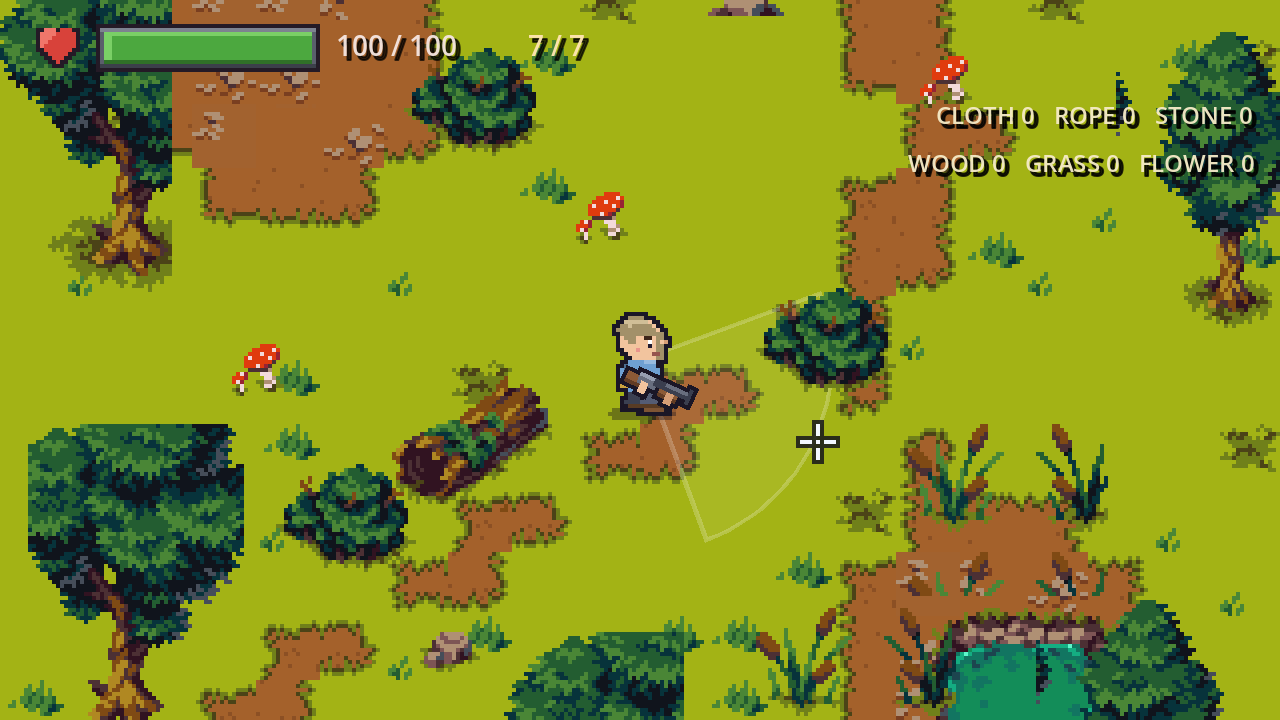
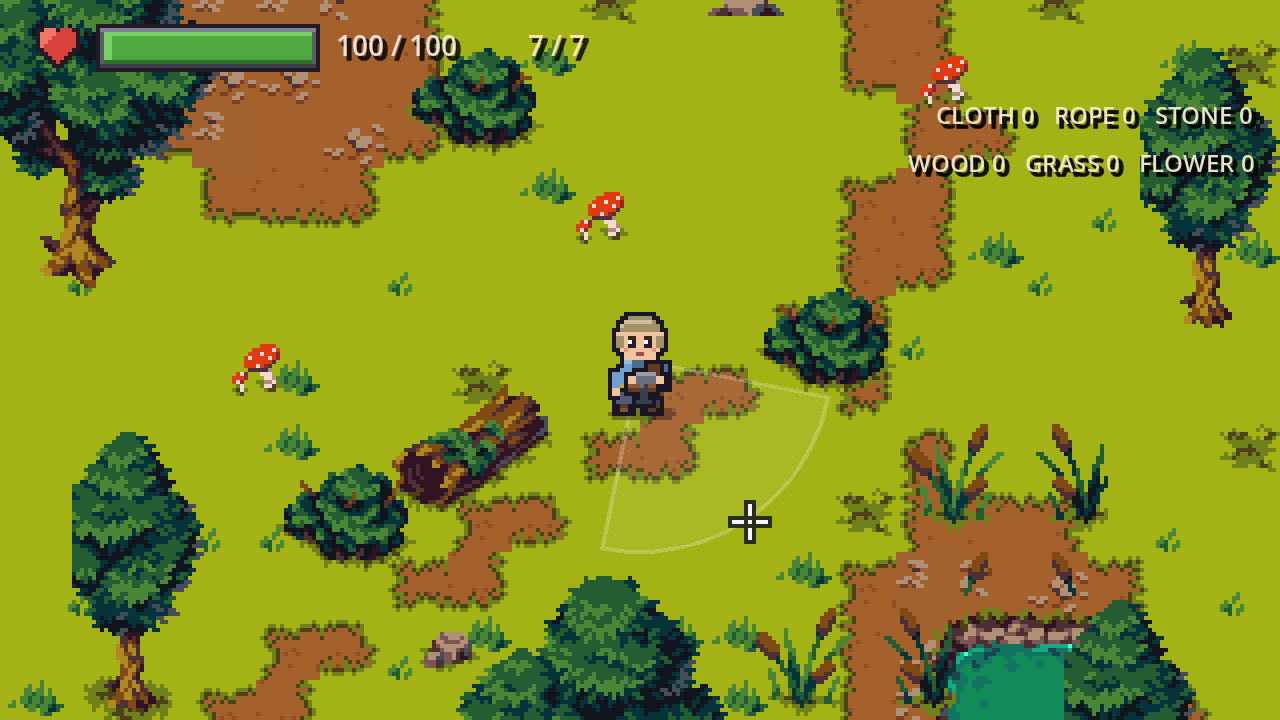
fix: 树抠图裁全（4 种完整树冠）+ 去掉零散碎片

diff --git a/tools/make_forest_props.py b/tools/make_forest_props.py
@@ -4,6 +4,8 @@
 """
 from pathlib import Path
 
+from collections import deque
+
 from PIL import Image
 
 DECO = Path(r"C:\game\TopDownFantasy-Forest\Decorations\Decorations.png")
@@ -12,9 +14,10 @@ OUT = Path(r"C:\game\test\assets\forest")
 
 # 名字 -> (来源, 裁剪框)
 CROPS = {
-    "tree_a": (DECO, (154, 158, 202, 242)),
-    "tree_b": (DECO, (0, 160, 56, 242)),
-    "tree_c": (DECO, (98, 160, 152, 242)),
+    "tree_a": (DECO, (4, 136, 84, 254)),
+    "tree_b": (DECO, (86, 138, 166, 252)),
+    "tree_c": (DECO, (168, 158, 212, 252)),
+    "tree_d": (DECO, (214, 158, 252, 252)),
     "bush": (DECO, (10, 0, 50, 32)),
     "log": (DECO, (62, 0, 122, 34)),
     "mushrooms": (DECO, (158, 4, 190, 26)),
@@ -24,6 +27,41 @@ CROPS = {
 }
 
 
+def drop_specks(img: Image.Image, keep_ratio: float = 0.12) -> Image.Image:
+    """去掉零散的小碎片（只保留最大的几块连通区域）。"""
+    w, h = img.size
+    px = img.load()
+    seen = [[False] * h for _ in range(w)]
+    comps: list[list[tuple[int, int]]] = []
+    for y in range(h):
+        for x in range(w):
+            if seen[x][y] or px[x, y][3] == 0:
+                continue
+            comp = []
+            q = deque([(x, y)])
+            seen[x][y] = True
+            while q:
+                cx, cy = q.popleft()
+                comp.append((cx, cy))
+                for dx, dy in ((1, 0), (-1, 0), (0, 1), (0, -1)):
+                    nx, ny = cx + dx, cy + dy
+                    if 0 <= nx < w and 0 <= ny < h and not seen[nx][ny] and px[nx, ny][3] > 0:
+                        seen[nx][ny] = True
+                        q.append((nx, ny))
+            comps.append(comp)
+    if not comps:
+        return img
+    biggest = max(len(c) for c in comps)
+    out = Image.new("RGBA", (w, h), (0, 0, 0, 0))
+    opx = out.load()
+    for comp in comps:
+        if len(comp) < biggest * keep_ratio:
+            continue
+        for (x, y) in comp:
+            opx[x, y] = px[x, y]
+    return out
+
+
 def main() -> None:
     OUT.mkdir(parents=True, exist_ok=True)
     cache: dict[Path, Image.Image] = {}
@@ -31,6 +69,7 @@ def main() -> None:
         if src not in cache:
             cache[src] = Image.open(src).convert("RGBA")
         img = cache[src].crop(box)
+        img = drop_specks(img)
         bbox = img.getbbox()
         if bbox:
             img = img.crop(bbox)
